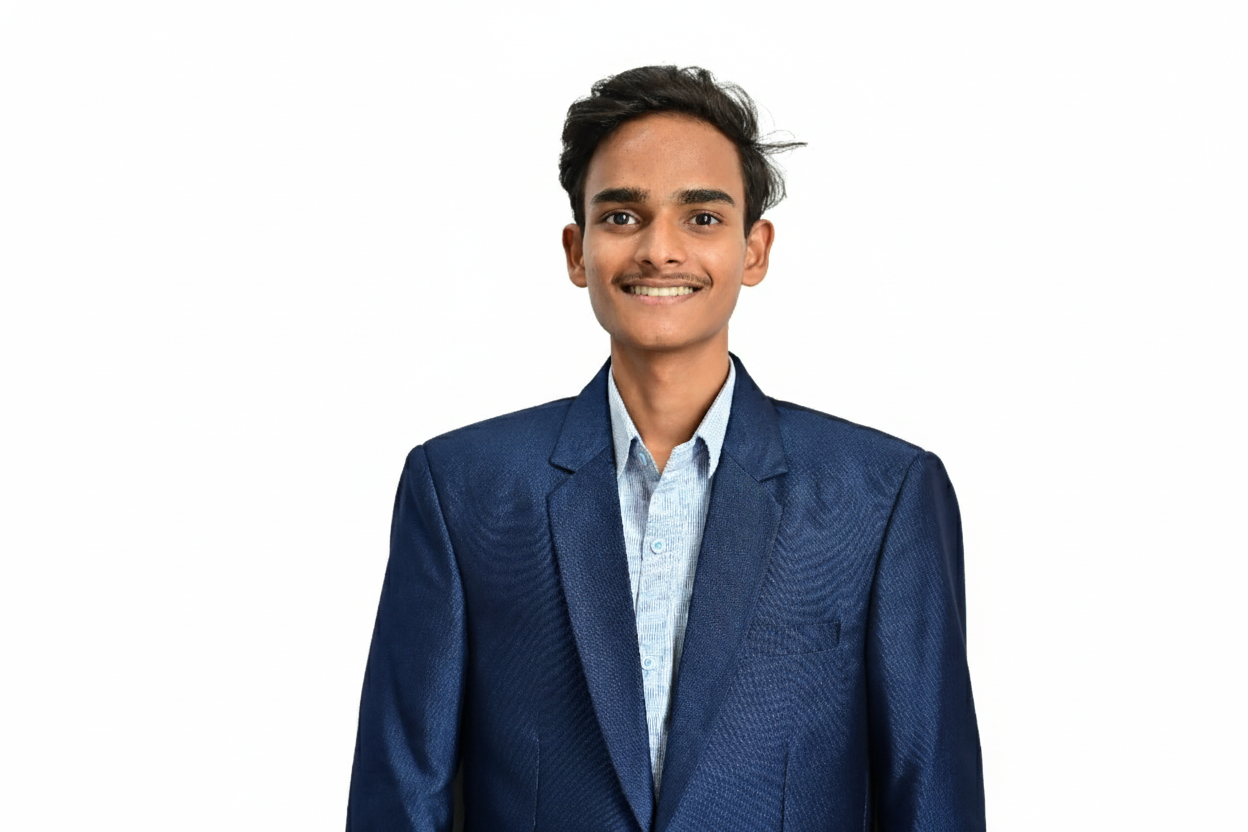
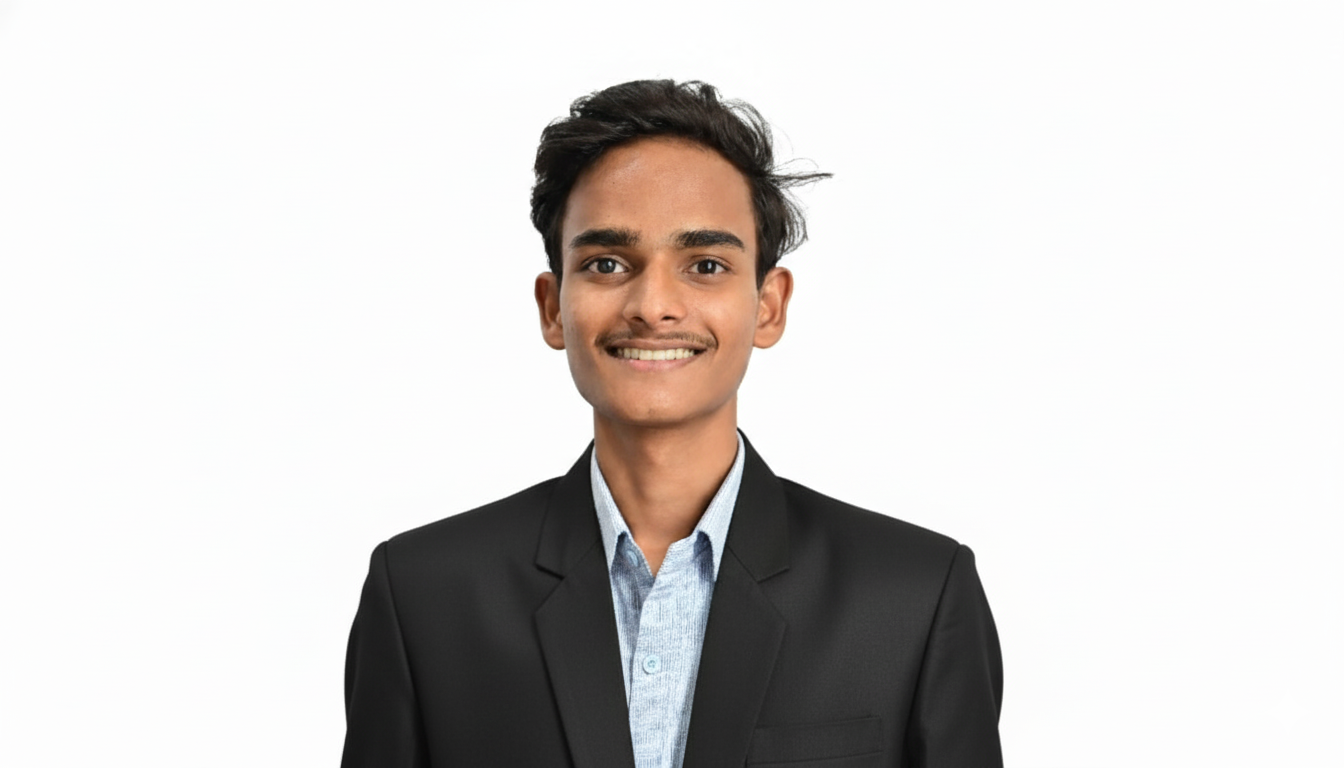
All photos enhanced

Changed region(s): [[0.25, 0.0625, 0.8125, 1.0]]

diff --git a/src/data/members.js b/src/data/members.js
@@ -1,12 +1,12 @@
 export const members = [
     { "name": "Jaideep Thandra", "designation": "President", "year": 4, "department": "CSE", "regdNo": "22L31A05L9", "image": "/Jaideep Thandra.jpg" },
-    { "name": "M. Aravind Kumar", "designation": "Vice - President", "year": 2, "department": "MCA", "regdNo": "24L31F00B2", "image": "/images/male.svg" },
+    { "name": "M. Aravind Kumar", "designation": "Vice - President", "year": 2, "department": "MCA", "regdNo": "24L31F00B2", "image": "/Aravind.jpg" },
     { "name": "Subhakankshi Sahu", "designation": "Vice - President", "year": 4, "department": "IT", "regdNo": "22L31A1253", "image": "/Subhakankshi.jpg" },
     { "name": "Chollangi Monish", "designation": "Treasurer", "year": 4, "department": "AI&DS", "regdNo": "22L31A5420", "image": "/Monish.jpg" },
     { "name": "T. Gulshan Sri Babu", "designation": "Core Lead", "year": 4, "department": "CE", "regdNo": "23L35A0151", "image": "/Gulshan.jpg" },
     { "name": "Praveen Kumar Naidu", "designation": "Core Lead", "year": 4, "department": "ME", "regdNo": "22L31A03A2", "image": "/Praveen.jpg" },
     { "name": "Sameer Shaik", "designation": "Core Lead", "year": 4, "department": "ME", "regdNo": "23L35A0371", "image": "/Sameer Core Lead.jpg" },
-    { "name": "Khan Md. Abdul Shukkur", "designation": "Core Lead", "year": 4, "department": "IT", "regdNo": "22L31A1227", "image": "/images/male.svg" },
+    { "name": "Khan Md. Abdul Shukkur", "designation": "Core Lead", "year": 4, "department": "IT", "regdNo": "22L31A1227", "image": "/Khan.jpg" },
     { "name": "K. Charan Sai", "designation": "Core Lead", "year": 4, "department": "ACSE", "regdNo": "22L31A4322", "image": "/Charan Sai.jpg" },
     { "name": "Veena Sree Maharana", "designation": "Core Lead", "year": 4, "department": "AI&DS", "regdNo": "22L31A54A7", "image": "/Veena.jpg" },
     { "name": "Rahul Koyilada", "designation": "Secretary", "year": 3, "department": "ME", "regdNo": "23L31A0390", "image": "/Rahul.jpg" },
@@ -17,40 +17,40 @@ export const members = [
     { "name": "Shreyan Pilla", "designation": "Core Team", "year": 3, "department": "CSE", "regdNo": "23L31A05J1", "image": "/Shreyan.jpg" },
     { "name": "D. Bhavana Varma", "designation": "Core Team", "year": 3, "department": "IT", "regdNo": "23L31A1241", "image": "/Bhavana.jpg" },
     { "name": "Appikonda Renuka Akshya", "designation": "Core Team", "year": 3, "department": "ACSE", "regdNo": "23L31A4607", "image": "/Renuka.jpg" },
-    { "name": "Shaik Abdul Sameer", "designation": "Club Manager", "year": 3, "department": "CE", "regdNo": "24L35A0141", "image": "/images/male.svg" },
+    { "name": "Shaik Abdul Sameer", "designation": "Club Manager", "year": 3, "department": "CE", "regdNo": "24L35A0141", "image": "/Sameer Club Manager.jpg" },
     { "name": "K. Uday Bhaskar", "designation": "Club Manager", "year": 3, "department": "ME", "regdNo": "23L31A0383", "image": "/Uday.jpg" },
     { "name": "K. Pavan Kumar", "designation": "Club Manager", "year": 3, "department": "ECE", "regdNo": "23L31A0494", "image": "/Pavan Club Manager.jpg" },
-    { "name": "Mahamed Mastan Jani", "designation": "Club Manager", "year": 3, "department": "CSE", "regdNo": "23L31A05F2", "image": "/images/male.svg" },
-    { "name": "V. Yashash Chandra", "designation": "Club Manager", "year": 3, "department": "CSE", "regdNo": "23L31A05O8", "image": "/images/male.svg" },
-    { "name": "Y. Tushar", "designation": "Club Manager", "year": 3, "department": "CSE", "regdNo": "23L31A05Q1", "image": "/images/male.svg" },
+    { "name": "Mahamed Mastan Jani", "designation": "Club Manager", "year": 3, "department": "CSE", "regdNo": "23L31A05F2", "image": "/Mastan.jpg" },
+    { "name": "V. Yashash Chandra", "designation": "Club Manager", "year": 3, "department": "CSE", "regdNo": "23L31A05O8", "image": "/Yashash.jpg" },
+    { "name": "Y. Tushar", "designation": "Club Manager", "year": 3, "department": "CSE", "regdNo": "23L31A05Q1", "image": "/Tushar.jpg" },
     { "name": "Shajid Shaik", "designation": "Club Manager", "year": 3, "department": "ECM", "regdNo": "23L31A1962", "image": "/Shajid.jpg" },
-    { "name": "R. D. V. Prasad", "designation": "Club Manager", "year": 3, "department": "AI&DS", "regdNo": "23L31A5494", "image": "/images/male.svg" },
-    { "name": "T. Likitha Varshini", "designation": "Club Manager", "year": 3, "department": "AI&DS", "regdNo": "23L31A54B9", "image": "/images/female.svg" },
-    { "name": "Y. Shyam Kumar", "designation": "Joint Secretary", "year": 2, "department": "CE", "regdNo": "24L31A0196", "image": "/images/male.svg" },
-    { "name": "M. Jyothika", "designation": "Joint Secretary", "year": 2, "department": "EEE", "regdNo": "24L31A0281", "image": "/images/female.svg" },
-    { "name": "G. Bharath", "designation": "Joint Secretary", "year": 2, "department": "ME", "regdNo": "24L31A0347", "image": "/images/male.svg" },
+    { "name": "R. D. V. Prasad", "designation": "Club Manager", "year": 3, "department": "AI&DS", "regdNo": "23L31A5494", "image": "/Prasad.jpg" },
+    { "name": "T. Likitha Varshini", "designation": "Club Manager", "year": 3, "department": "AI&DS", "regdNo": "23L31A54B9", "image": "/Likitha.jpg" },
+    { "name": "Y. Shyam Kumar", "designation": "Joint Secretary", "year": 2, "department": "CE", "regdNo": "24L31A0196", "image": "/Shyam.jpg" },
+    { "name": "M. Jyothika", "designation": "Joint Secretary", "year": 2, "department": "EEE", "regdNo": "24L31A0281", "image": "/Jyothika.jpg" },
+    { "name": "G. Bharath", "designation": "Joint Secretary", "year": 2, "department": "ME", "regdNo": "24L31A0347", "image": "/Bharath.jpg" },
     { "name": "M. Swamy Shiva Kumar", "designation": "Joint Secretary", "year": 2, "department": "ECE", "regdNo": "24L31A04F3", "image": "/Swamy Shiva Kumar.jpg" },
-    { "name": "P. Rahul", "designation": "Joint Secretary", "year": 2, "department": "CSE", "regdNo": "24L31A05V4", "image": "/images/male.svg" },
+    { "name": "P. Rahul", "designation": "Joint Secretary", "year": 2, "department": "CSE", "regdNo": "24L31A05V4", "image": "/Rahul Joint Secretary.jpg" },
     { "name": "D. P. V. Puskar", "designation": "Joint Secretary", "year": 2, "department": "IT", "regdNo": "24L31A1237", "image": "/Puskar.jpg" },
-    { "name": "T. Vivek", "designation": "Joint Secretary", "year": 2, "department": "ECM", "regdNo": "24L31A1959", "image": "/images/male.svg" },
-    { "name": "N. Jhansi Sri Kavya", "designation": "Joint Secretary", "year": 2, "department": "ACSE", "regdNo": "24L31A43B5", "image": "/images/female.svg" },
-    { "name": "Ch. Harshith Varma", "designation": "Joint Secretary", "year": 2, "department": "AI&DS", "regdNo": "24L31A5429", "image": "/images/male.svg" },
-    { "name": "D. Hemanth", "designation": "Club Coordinator", "year": 2, "department": "CE", "regdNo": "24L31A0114", "image": "/images/male.svg" },
-    { "name": "V. Bharat", "designation": "Club Coordinator", "year": 2, "department": "CE", "regdNo": "24L31A0192", "image": "/images/male.svg" },
-    { "name": "K. Jyothi Pavan", "designation": "Club Coordinator", "year": 2, "department": "EEE", "regdNo": "24L31A0269", "image": "/images/male.svg" },
-    { "name": "D. Niraj Kumar", "designation": "Club Coordinator", "year": 2, "department": "EEE", "regdNo": "25L35A0203", "image": "/images/male.svg" },
-    { "name": "K. Vikas", "designation": "Club Coordinator", "year": 2, "department": "ME", "regdNo": "24L31A0376", "image": "/images/male.svg" },
-    { "name": "N. Lakshmi Tejasri", "designation": "Club Coordinator", "year": 2, "department": "ME", "regdNo": "24L31A03B1", "image": "/images/female.svg" },
-    { "name": "B. Naveen Kumar", "designation": "Club Coordinator", "year": 2, "department": "ECE", "regdNo": "24L31A0423", "image": "/images/male.svg" },
-    { "name": "P. Praveen Reddy", "designation": "Club Coordinator", "year": 2, "department": "ECE", "regdNo": "24L31A04G1", "image": "/images/male.svg" },
-    { "name": "B. Hari Krishna", "designation": "Club Coordinator", "year": 2, "department": "CSE", "regdNo": "24L31A0526", "image": "/images/male.svg" },
-    { "name": "P. Sree Navya Rajan", "designation": "Club Coordinator", "year": 2, "department": "CSE", "regdNo": "24L31A05X4", "image": "/images/female.svg" },
-    { "name": "M.Mahalakshmi Meghana", "designation": "Club Coordinator", "year": 2, "department": "IT", "regdNo": "24L31A12C0", "image": "/images/female.svg" },
-    { "name": "Lanka Akash Deep", "designation": "Club Coordinator", "year": 2, "department": "IT", "regdNo": "24L31A12A2", "image": "/images/male.svg" },
-    { "name": "D. Jai Vardhan", "designation": "Club Coordinator", "year": 2, "department": "ECM", "regdNo": "24L31A1914", "image": "/images/male.svg" },
-    { "name": "Sonia Paila", "designation": "Club Coordinator", "year": 2, "department": "ECM", "regdNo": "24L31A1941", "image": "/images/female.svg" },
-    { "name": "Venkatesh R", "designation": "Club Coordinator", "year": 2, "department": "ACSE", "regdNo": "24L31A43E8", "image": "/images/male.svg" },
-    { "name": "P. Kamal Venkatesh", "designation": "Club Coordinator", "year": 2, "department": "ACSE", "regdNo": "24L31A4681", "image": "/images/male.svg" },
-    { "name": "M. Sravanthi", "designation": "Club Coordinator", "year": 2, "department": "AI&DS", "regdNo": "24L31A54B0", "image": "/images/female.svg" },
-    { "name": "P. V. N. Sai Lakshmi", "designation": "Club Coordinator", "year": 2, "department": "AI&DS", "regdNo": "24L31A54D6", "image": "/images/female.svg" }
+    { "name": "T. Vivek", "designation": "Joint Secretary", "year": 2, "department": "ECM", "regdNo": "24L31A1959", "image": "/Vivek.jpg" },
+    { "name": "N. Jhansi Sri Kavya", "designation": "Joint Secretary", "year": 2, "department": "ACSE", "regdNo": "24L31A43B5", "image": "/Jhansi.jpg" },
+    { "name": "Ch. Harshith Varma", "designation": "Joint Secretary", "year": 2, "department": "AI&DS", "regdNo": "24L31A5429", "image": "/Harshith.jpg" },
+    { "name": "D. Hemanth", "designation": "Club Coordinator", "year": 2, "department": "CE", "regdNo": "24L31A0114", "image": "/Hemanth.jpg" },
+    { "name": "V. Bharat", "designation": "Club Coordinator", "year": 2, "department": "CE", "regdNo": "24L31A0192", "image": "/Bharat.jpg" },
+    { "name": "K. Jyothi Pavan", "designation": "Club Coordinator", "year": 2, "department": "EEE", "regdNo": "24L31A0269", "image": "/Jyothi Pavan.jpg" },
+    { "name": "D. Niraj Kumar", "designation": "Club Coordinator", "year": 2, "department": "EEE", "regdNo": "25L35A0203", "image": "/Niraj Kumar Club Coordinator.png" },
+    { "name": "K. Vikas", "designation": "Club Coordinator", "year": 2, "department": "ME", "regdNo": "24L31A0376", "image": "/Vikas Club Coordinator.jpg" },
+    { "name": "N. Lakshmi Tejasri", "designation": "Club Coordinator", "year": 2, "department": "ME", "regdNo": "24L31A03B1", "image": "/Lakshmi Tejasri.jpg" },
+    { "name": "B. Naveen Kumar", "designation": "Club Coordinator", "year": 2, "department": "ECE", "regdNo": "24L31A0423", "image": "/Naveen.jpg" },
+    { "name": "P. Praveen Reddy", "designation": "Club Coordinator", "year": 2, "department": "ECE", "regdNo": "24L31A04G1", "image": "/Praveen Reddy.jpg" },
+    { "name": "B. Hari Krishna", "designation": "Club Coordinator", "year": 2, "department": "CSE", "regdNo": "24L31A0526", "image": "/Hari Krishna.jpg" },
+    { "name": "P. Sree Navya Rajan", "designation": "Club Coordinator", "year": 2, "department": "CSE", "regdNo": "24L31A05X4", "image": "/Sree Navya Rajan.jpg" },
+    { "name": "M.Mahalakshmi Meghana", "designation": "Club Coordinator", "year": 2, "department": "IT", "regdNo": "24L31A12C0", "image": "/Mahalakshmi.jpg" },
+    { "name": "Lanka Akash Deep", "designation": "Club Coordinator", "year": 2, "department": "IT", "regdNo": "24L31A12A2", "image": "/Akash Deep.jpg" },
+    { "name": "D. Jai Vardhan", "designation": "Club Coordinator", "year": 2, "department": "ECM", "regdNo": "24L31A1914", "image": "/Jai Vardhan.jpg" },
+    { "name": "Sonia Paila", "designation": "Club Coordinator", "year": 2, "department": "ECM", "regdNo": "24L31A1941", "image": "/Sonia.jpg" },
+    { "name": "Venkatesh R", "designation": "Club Coordinator", "year": 2, "department": "ACSE", "regdNo": "24L31A43E8", "image": "/Venkatesh.jpg" },
+    { "name": "P. Kamal Venkatesh", "designation": "Club Coordinator", "year": 2, "department": "ACSE", "regdNo": "24L31A4681", "image": "/Kamal Venkatesh.jpg" },
+    { "name": "M. Sravanthi", "designation": "Club Coordinator", "year": 2, "department": "AI&DS", "regdNo": "24L31A54B0", "image": "/Sravanthi.jpg" },
+    { "name": "P. V. N. Sai Lakshmi", "designation": "Club Coordinator", "year": 2, "department": "AI&DS", "regdNo": "24L31A54D6", "image": "/Sai Lakshmi.jpg" }
 ];
